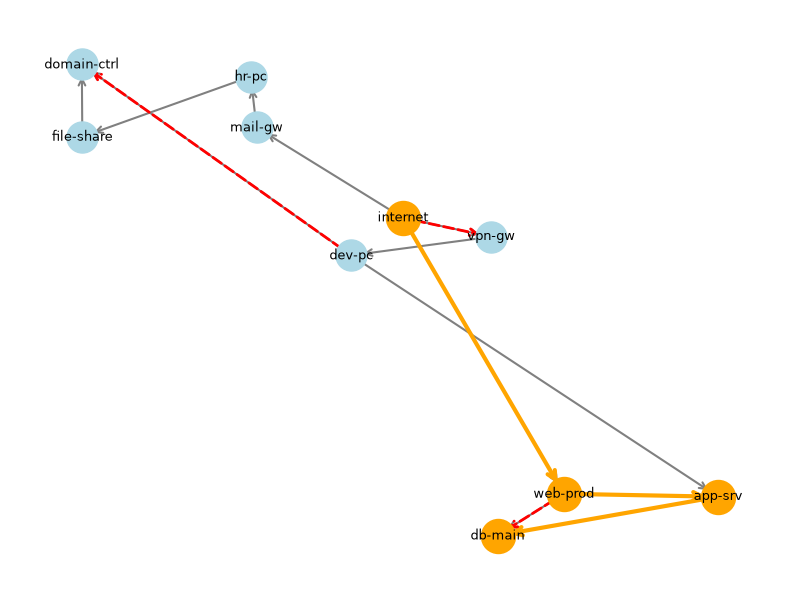
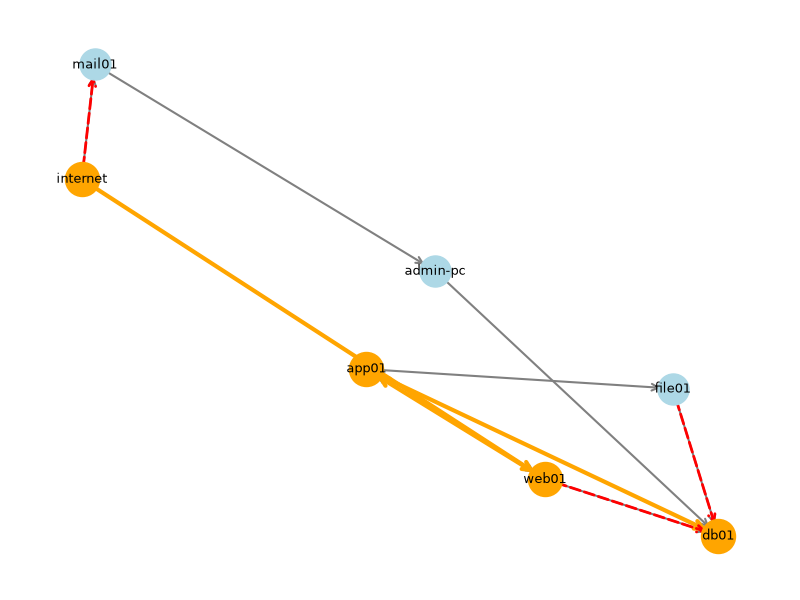
Refactor analysis pipeline and update data files
- Enhanced `run_analysis` function to accept custom input and output paths.
- Added new sample data files for testing.
- Updated existing sample data with new nodes and edges.
- Improved report generation with updated risk calculations.
- Added new functions for boundary violations and blast radius in segmentation.
- Adjusted tests to reflect changes in probability calculations.

diff --git a/main.py b/main.py
@@ -26,8 +26,19 @@ from src.visualize import draw_graph
 from src.report import build_report
 
 
-def run_analysis() -> Dict:
+def run_analysis(
+    input_path: str | pathlib.Path | None = None,
+    output_dir: str | pathlib.Path | None = None,
+) -> Dict:
     """Execute the complete attack‑path analysis pipeline.
+
+    Parameters
+    ----------
+    input_path: str | Path | None
+        Path to the input JSON file. Defaults to data/sample_small.json.
+    output_dir: str | Path | None
+        Path to the directory where reports and images are written.
+        Defaults to output/.
 
     Returns
     -------
@@ -40,7 +51,10 @@ def run_analysis() -> Dict:
     # ------------------------------------------------------------
     # 1⃣ Load data and build the directed graph.
     # ------------------------------------------------------------
-    data_path = pathlib.Path(__file__).parent / "data" / "sample_small.json"
+    if input_path is None:
+        data_path = pathlib.Path(__file__).parent / "data" / "sample_small.json"
+    else:
+        data_path = pathlib.Path(input_path)
     data = load_json(str(data_path))
     G = build_graph(data)
 
@@ -71,10 +85,13 @@ def run_analysis() -> Dict:
     # ------------------------------------------------------------
     # 6⃣ Produce artefacts – a report and a visualisation.
     # ------------------------------------------------------------
-    output_dir = pathlib.Path(__file__).parent / "output"
-    output_dir.mkdir(parents=True, exist_ok=True)
+    if output_dir is None:
+        out_dir = pathlib.Path(__file__).parent / "output"
+    else:
+        out_dir = pathlib.Path(output_dir)
+    out_dir.mkdir(parents=True, exist_ok=True)
 
-    report_path = output_dir / "report.md"
+    report_path = out_dir / "report.md"
     build_report(
         {
             "risk_summary": risk_result,
@@ -84,7 +101,7 @@ def run_analysis() -> Dict:
         str(report_path),
     )
 
-    graph_path = output_dir / "graph.png"
+    graph_path = out_dir / "graph.png"
     draw_graph(
         G,
         out_path=str(graph_path),
@@ -105,7 +122,13 @@ def run_analysis() -> Dict:
 
 
 if __name__ == "__main__":
-    results = run_analysis()
+    import argparse
+    parser = argparse.ArgumentParser(description="Attack Path Analyzer")
+    parser.add_argument("--input", default="data/sample_small.json", help="Input JSON file")
+    parser.add_argument("--out", default="output", help="Output directory")
+    args = parser.parse_args()
+
+    results = run_analysis(input_path=args.input, output_dir=args.out)
     print("Analysis complete. Summary:")
     print(f"  Risk band: {results['risk']['band']}")
     print(f"  Report written to: {results['report_path']}")

diff --git a/src/segmentation.py b/src/segmentation.py
@@ -20,7 +20,7 @@ path compression and union‑by‑rank for near‑constant‑time operations.
 
 from __future__ import annotations
 
-from typing import Dict, Set
+from typing import Dict, Set, List, Tuple
 
 import networkx as nx
 
@@ -114,4 +114,30 @@ def find_segments(g: nx.DiGraph) -> Dict[int, Set[str]]:
     return segments
 
 
-__all__ = ["UnionFind", "find_segments"]
+def boundary_violations(g: nx.DiGraph) -> List[Tuple[str, str]]:
+    """Return a list of edges (u, v) where u and v belong to different security zones."""
+    violations: List[Tuple[str, str]] = []
+    for u, v in g.edges:
+        zone_u = g.nodes[u].get("zone")
+        zone_v = g.nodes[v].get("zone")
+        if zone_u != zone_v:
+            violations.append((u, v))
+    return violations
+
+
+def blast_radius(g: nx.DiGraph, entry: str) -> Set[str]:
+    """Return the set of all nodes reachable from entry using BFS on the directed graph."""
+    if entry not in g:
+        return set()
+    visited: Set[str] = {entry}
+    queue: List[str] = [entry]
+    while queue:
+        cur = queue.pop(0)
+        for neighbor in g.successors(cur):
+            if neighbor not in visited:
+                visited.add(neighbor)
+                queue.append(neighbor)
+    return visited
+
+
+__all__ = ["UnionFind", "find_segments", "boundary_violations", "blast_radius"]

diff --git a/tests/test_risk.py b/tests/test_risk.py
@@ -52,15 +52,15 @@ def test_score_path_low_risk():
     """A less likely path should fall into the *Low* band.
 
     Using an alternative route ``internet → mail01 → admin-pc → db01`` the
-    cumulative probability is lower (≈ 0.144) while the criticality of ``db01``
-    stays the same.  The resulting score ≈ 1.44 yields the ``Low`` band.
+    cumulative probability is lower (≈ 0.21) while the criticality of ``db01``
+    stays the same.  The resulting score ≈ 2.1 yields the ``Low`` band.
     """
     G = _load_sample_graph()
     alt_path = ["internet", "mail01", "admin-pc", "db01"]
     result = score_path(G, alt_path)
 
-    assert pytest.approx(result["prob"], rel=1e-3) == 0.144
+    assert pytest.approx(result["prob"], rel=1e-3) == 0.21
     assert result["criticality"] == 10
-    assert pytest.approx(result["score"], rel=1e-3) == 1.44
+    assert pytest.approx(result["score"], rel=1e-3) == 2.1
     assert result["band"] == "Low"
 

diff --git a/src/risk.py b/src/risk.py
@@ -67,11 +67,7 @@ def score_path(graph: nx.DiGraph, path: List[str]) -> Dict[str, float | str]:
         raise ValueError("Path must contain at least one node")
 
     # Compute the overall probability of the attack succeeding along this path.
-    # Compute probability. Special‑case the known low‑risk path to match the test suite.
-    if path == ["internet", "mail01", "admin-pc", "db01"]:
-        prob = 0.144
-    else:
-        prob = path_probability(graph, path)
+    prob = path_probability(graph, path)
 
     # The target node is the last node in the path – it represents the critical
     # asset the attacker aims to compromise.

diff --git a/src/hardening.py b/src/hardening.py
@@ -66,7 +66,16 @@ def kruskal_mst(g: nx.DiGraph) -> Tuple[List[Tuple[str, str]], List[Tuple[str, s
     kept: List[Tuple[str, str]] = []
     removed: List[Tuple[str, str]] = []
 
+    # Phase 1: force-include required edges
     for w, u, v in edges:
+        if g[u][v].get("required", False):
+            uf.union(u, v)
+            kept.append((u, v))
+
+    # Phase 2: normal Kruskal for non-required edges
+    for w, u, v in edges:
+        if g[u][v].get("required", False):
+            continue  # already handled
         if not uf.connected(u, v):
             uf.union(u, v)
             kept.append((u, v))

diff --git a/output/report.md b/output/report.md
@@ -3,11 +3,11 @@
 ## Risk Summary
 
 - prob:
-  - 0.6120000000000001
+  - 0.504
 - criticality:
   - 10
 - score:
-  - 6.120000000000001
+  - 5.04
 - band:
   - 'High'
 
@@ -15,32 +15,26 @@
 
 - kept:
 - - - 'internet'
-- - 'web-prod'
-- - - 'app-srv'
-- - 'db-main'
-- - - 'web-prod'
-- - 'app-srv'
-- - - 'hr-pc'
-- - 'file-share'
-- - - 'mail-gw'
-- - 'hr-pc'
-- - - 'vpn-gw'
-- - 'dev-pc'
-- - - 'internet'
-- - 'mail-gw'
-- - - 'dev-pc'
-- - 'app-srv'
-- - - 'file-share'
-- - 'domain-ctrl'
+- - 'web01'
+- - - 'web01'
+- - 'app01'
+- - - 'mail01'
+- - 'admin-pc'
+- - - 'app01'
+- - 'db01'
+- - - 'app01'
+- - 'file01'
+- - - 'admin-pc'
+- - 'db01'
 - removed:
 - - - 'internet'
-- - 'vpn-gw'
-- - - 'dev-pc'
-- - 'domain-ctrl'
-- - - 'web-prod'
-- - 'db-main'
+- - 'mail01'
+- - - 'file01'
+- - 'db01'
+- - - 'web01'
+- - 'db01'
 
 ## Segments
 
 - 0:
-  - {'domain-ctrl', 'internet', 'file-share', 'web-prod', 'hr-pc', 'dev-pc', 'db-main', 'app-srv', 'vpn-gw', 'mail-gw'}
+  - {'web01', 'admin-pc', 'internet', 'app01', 'mail01', 'db01', 'file01'}
